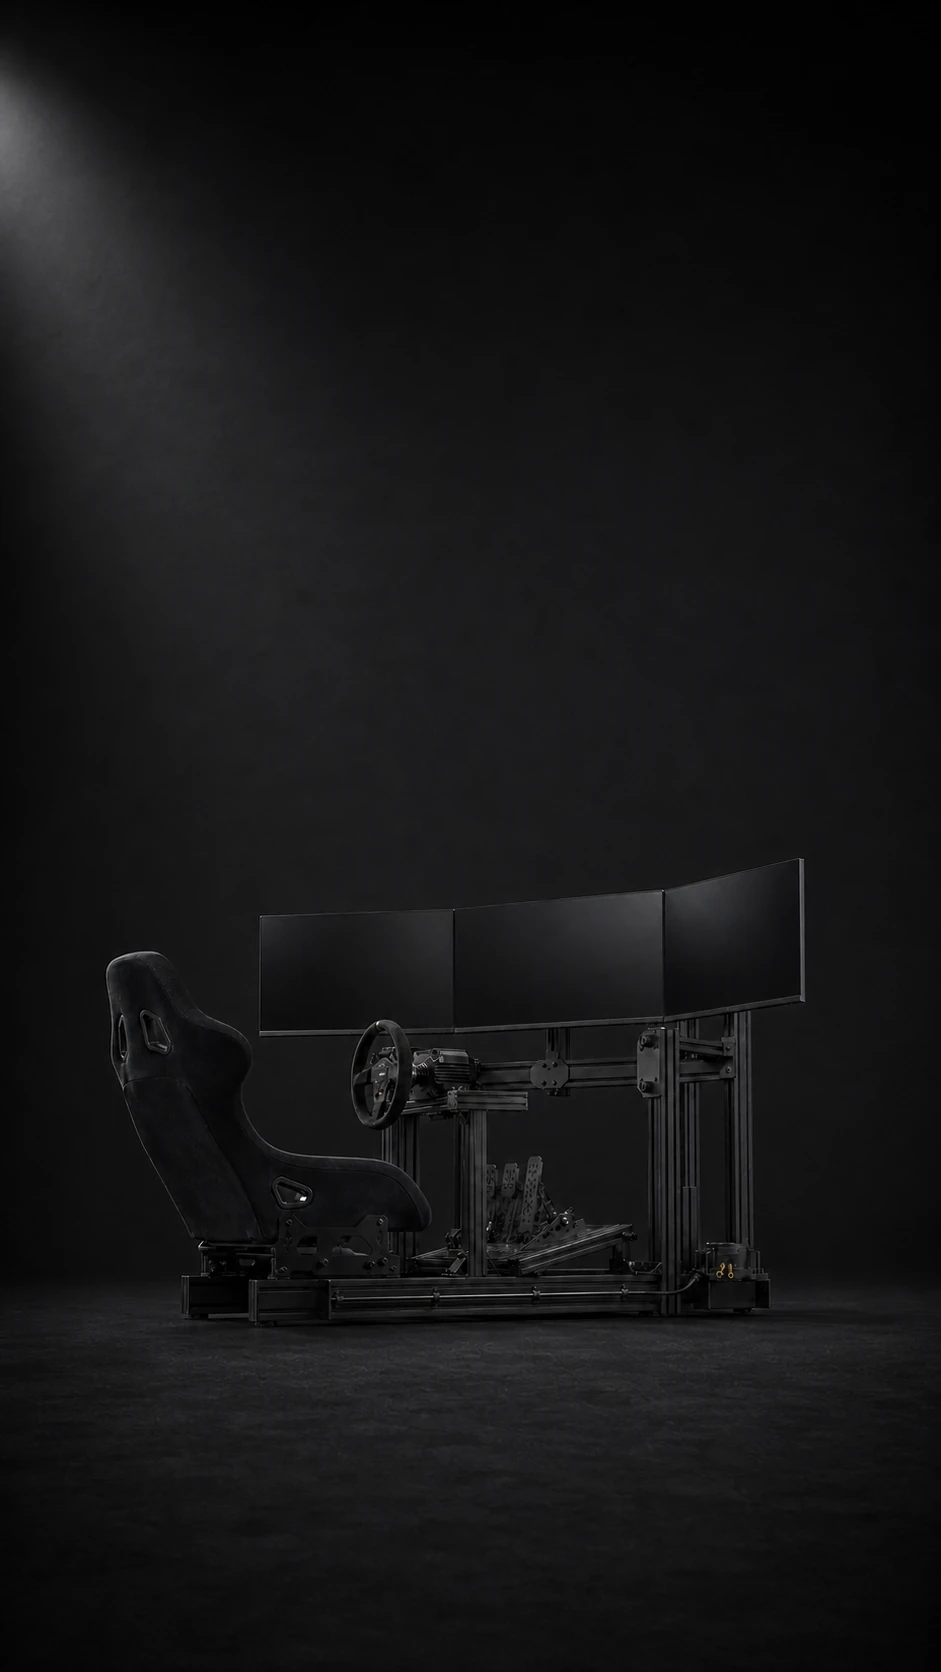
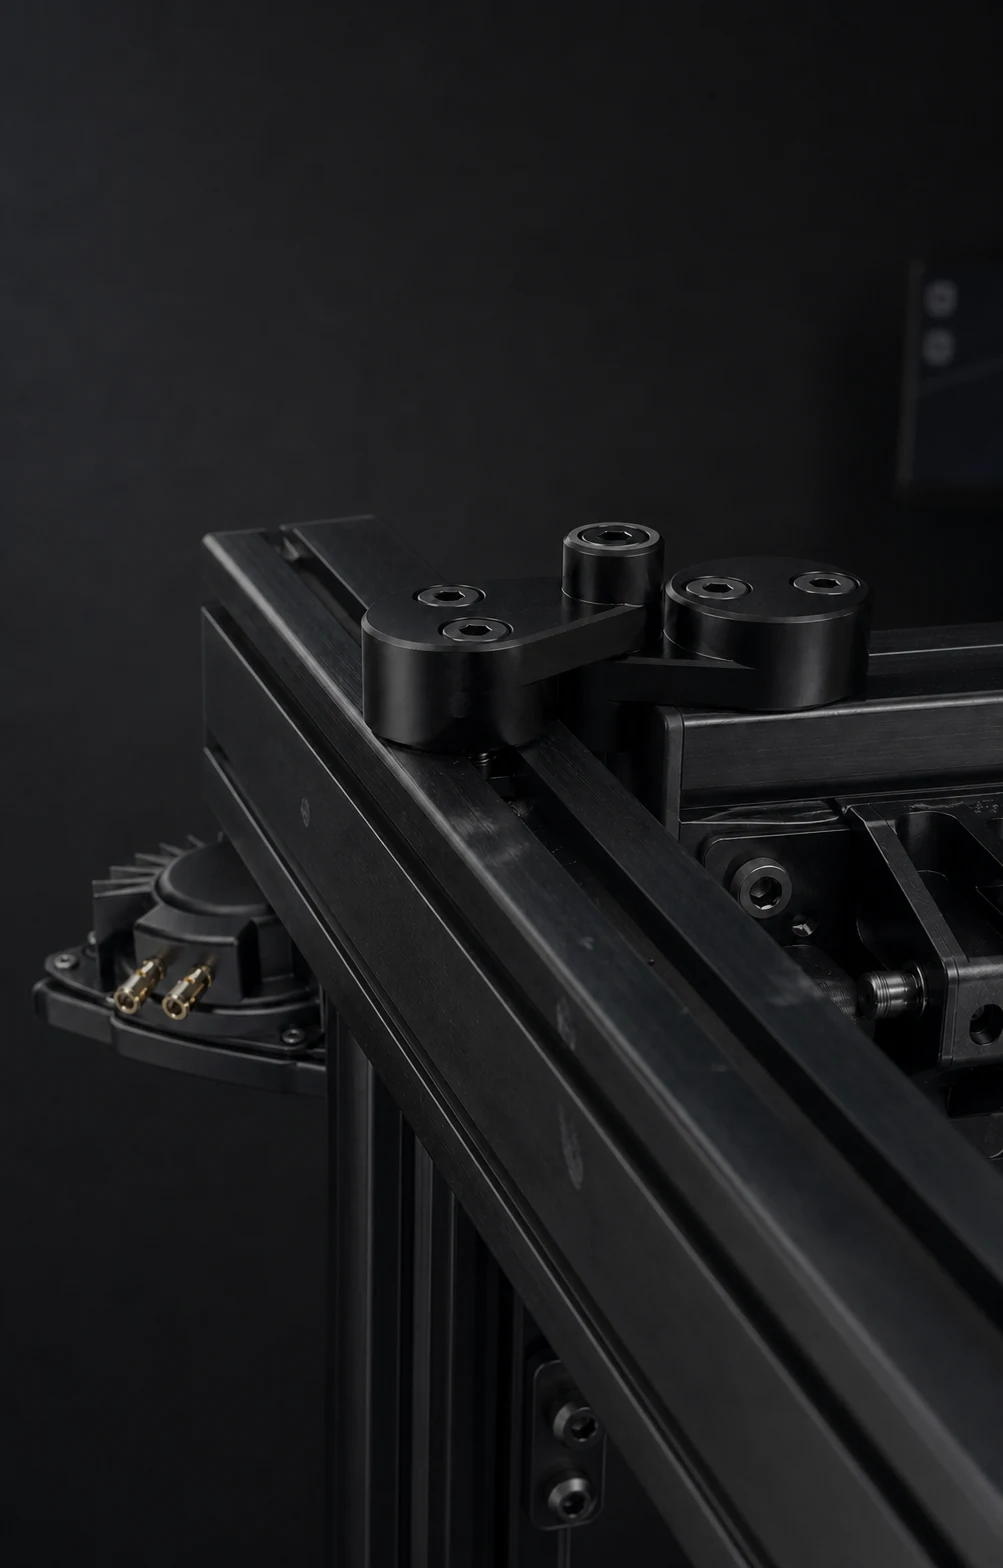
Correct SimMount compatibility and product imagery

diff --git a/DESIGN.md b/DESIGN.md
@@ -139,7 +139,7 @@ MALIEV's expression is its own: Thai manufacturing, compact production equipment
 
 ### Physical scene
 
-A Thai workshop owner reviews the store on a laptop beside a bright production bench in daytime. The room is practical and well maintained, not a showroom. Product images and specifications must remain legible in ambient light, so the default shell is light, crisp, and high contrast. SimMount earns a contained carbon mode because it is evaluated in a cockpit context, but the controls and information architecture remain the same.
+A Thai workshop owner reviews the store on a laptop beside a bright production bench in daytime. The room is practical and well maintained, not a showroom. Product images and specifications must remain legible in ambient light, so the default shell is light, crisp, and high contrast. SimMount earns a contained carbon mode because it is used in sim-racing environments, but its mounting hardware stays visually dominant and complete cockpits remain background context only. The controls and information architecture remain the same.
 
 ### Color strategy
 
